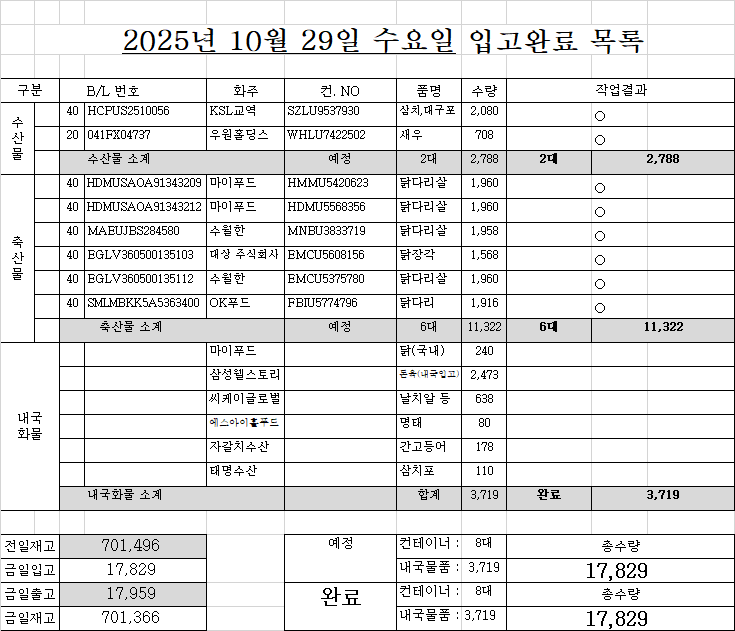
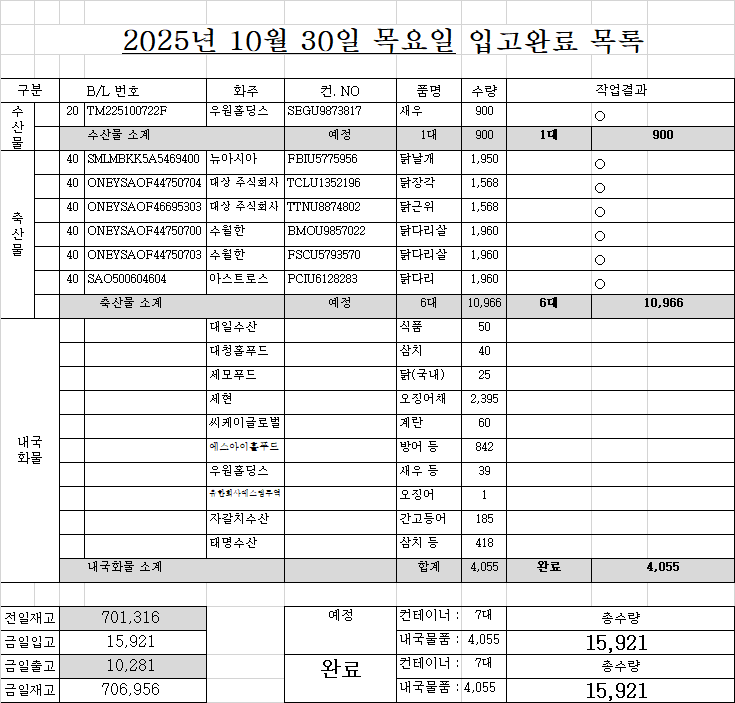
DSFSDFSD

diff --git a/list.html b/list.html
@@ -122,61 +122,55 @@
 </div>
 <!-- ★★★★★★ 따로 빼 놔야한다. 복붙하면 첫칸 비어도 되는데, 여기서는 첫칸비우면 당겨진다. -->
 <!-- ★ 엑셀범위를 브라우저 textarea에 붙여넣으면 첫셀 비어도 제대로 되는데... HTML에 붙여놓은 자료는 처음셀이 비어있으면 당겨짐 -->
-<div class="d-none" id="원본text_리스트1부터w요약열까지">작성	면허	B/LNO.	화주	컨테이너NO.	품명	수량	반입NO.	입항일	구분	도착일	도착시간	구분	운.도VBA	10/28 화 16:25	화찰BL	화찰 선명	화물관리번호	화찰수량	화찰중량	화찰입항	리스트시트기준열	
-1	○	HCPUS2510056	KSL교역	SZLU9537930	삼치,대구포	2,080 	????(ONE).BPT신선대	10/27	1	ONE			????(ONE).BPT신선대		HCPUS2510056	KMTC DALIAN	25KMTC3867I-5053-0001	2,080 	21,840.00 	2025.10.27	10/28 화 16:25	
-1	○	HDMUSAOA91343209	마이푸드	HMMU5420623	닭다리살	1,960 	HPNT	10/12	2				HPNT		HDMUSAOA91343209	HMM OCEAN	25HDMUA469I-0044-	1,960 	24,500.00 	2025.10.10	조회정보	
-1	○	HDMUSAOA91343212	마이푸드	HDMU5568356	닭다리살	1,960 	HPNT	10/12	2				HPNT		HDMUSAOA91343212	HMM OCEAN	25HDMUA469I-0045-	1,960 	24,500.00 	2025.10.10	적재	57 
-1	○	MAEUJBS284580	수월한	MNBU3833719	닭다리살	1,958 	PNC	10/26	2				PNC		MAEUJBS284580	GRASMERE MAERSK	25MAEU0710I-1207-	1,958 	24,583.29 	2025.10.26	4,617 	3줄
-1	○	EGLV360500135103	대상 주식회사	EMCU5608156	닭장각	1,568 	BPT감만	10/27	2	10/28	13:22		BPT감만		EGLV360500135103	RDO FAVOUR	25KRCL0041I-1955-	1,568 	24,304.00 	2025.10.27	6,156 	4줄
-1	○	EGLV360500135112	수월한	EMCU5375780	닭다리살	1,960 	BPT감만	10/27	2				BPT감만		EGLV360500135112	RDO FAVOUR	25KRCL0041I-1956-	1,960 	24,500.00 	2025.10.27	7,695 	5줄
-2	○	SMLMBKK5A5363400	OK푸드	FBIU5774796	닭다리	1,916 		10/28	2				?????.BPT신선대		SMLMBKK5A5363400	PANCON BRIDGE	25PCLUBK12I-3304-	1,916 	24,103.28 	2025.10.28	9,234 	6줄
-2	○	SMLMBKK5A5469400	뉴아시아	FBIU5775956	닭날개	1,950 		10/28	2				?????.BPT신선대		SMLMBKK5A5469400	PANCON BRIDGE	25PCLUBK12I-3303-	1,950 	24,453.00 	2025.10.28		
-2	○	ONEYSAOF46695303	대상 주식회사	TTNU8874802	닭근위	1,568 	DGT	10/28	2				DGT		ONEYSAOF46695303	HYUNDAI PREMIUM	25HDMUA542I-5018-	1,568 	24,304.00 	2025.10.28	출고/입고 4주간	
-2	○	ONEYSAOF44750700	수월한	BMOU9857022	닭다리살	1,960 	DGT	10/28	2				DGT		ONEYSAOF44750700	HYUNDAI PREMIUM	25HDMUA542I-5003-	1,960 	24,500.00 	2025.10.28	1일 7/5	5일줄
-2	○	ONEYSAOF44750703	수월한	FSCU5793570	닭다리살	1,960 	DGT	10/28	2				DGT		ONEYSAOF44750703	HYUNDAI PREMIUM	25HDMUA542I-5006-	1,960 	24,500.00 	2025.10.28	16,382 	53.2
-		MAEUJBS284918	대상 주식회사	MNBU3486116	닭발	1,566 	PNC	10/27	2				PNC			NORDAGER MAERSK					14,590 	47.4
-		MEDUJJ087892	대상 주식회사	MEDU9620031	닭다리살	1,967 	PNIT	10/27	2				PNIT			BUENAVENTURA EXPRESS					내국제외	
-		ONEYSAOF42906801	수월한	SEGU9276513	닭다리살	1,960 	PNIT	10/27	2				PNIT			BUENAVENTURA EXPRESS					구분	대수
-		041FX04737	우원홀딩스	WHLU7422502	새우	708 	BPT감만	10/27	1			20 	BPT감만			WAN HAI 289					수산	30
-		ONEYSAOF44750704	대상 주식회사	TCLU1352196	닭장각	1,568 	DGT	10/28	2				DGT			HYUNDAI PREMIUM(SX2)					축산	52
-		DJSCYOK250003368	씨케이글로벌	DJLU2900218	연어알	134 	BPT신선대	10/28	1			20 	BPT신선대			PEGASUS TERA					합계	82
-		SAO500604604	아스트로스	PCIU6128283	닭다리	1,960 		10/28	2							X PRESS PHOENIX						
-		ASC0484468	우원	CGMU3066895	새우	1,001 		10/28	1			20 	?????.DGT			HAIAN WEST(KI8)					화주별 요약	
-		HLCUPN4250851459	대성무역	HLBU6093411	닭발	1,567 	PNC	10/29	2				PNC			MAERSK GAIRLOCH					화주	대수
-		XMN5A1476400	더파이러츠	FCGU6130513	새우	1,800 	?????(SM).허치슨감만	10/29	1	SM			?????(SM).허치슨감만			PEGASUS DREAM					수월한	18
-		MAEUJBS285601	수월한	MNBU9096286	닭다리살	1,953 	PNIT	10/29	2				PNIT			OSAKA EXPRESS					뉴아시아	6
-		SSZ1666603	아스트로스	CGMU5303640	닭다리	1,875 		10/29	2				?????.BNCT			CMA CGM CORAL					씨케이글로벌	6
-		HDMUSGNA97915201	우원	TEXU9031090	새우	846 		10/29	1			20 	?????.HPNT			HAIAN OPUS					바다사랑	6
-		HDMUSGNA97915202	우원	TEXU9034464	새우	769 		10/29	1			20 	?????.HPNT			HAIAN OPUS					대상 주식회사	5
-		HDMUSGNA97915203	우원	TEXU9031866	새우	660 		10/29	1			20 	?????.HPNT			HAIAN OPUS					아스트로스	5
-		HDMUSGNA01489200	우원홀딩스	TEXU9031887	새우	820 	HPNT	10/29	1			20 	HPNT			HAIAN OPUS					대성무역	5
-		MAEU259339952	참트레이딩	MNBU3744397	닭다리살	1,916 	PNC	10/29	2				PNC			MAERSK GAIRLOCH					삼영수산	5
-		NSSLADLC25J00182	하나교역	TEXU9025982	재첩살	1,200 		10/29	1			20 									우원홀딩스	4
-		HLCUSCL250846299	동천씨푸드	HLBU9169038	오징어	1,200 	PNIT	10/30	1				PNIT			MSC LIVORNO					우원	4
-		KHHBUS2510013	바다사랑	FSCU5840517	꽁치	2,300 	BPT감만	10/30	1				BPT감만			IBN AL ABBAR					참트레이딩	4
-		KHHBUS2510013	바다사랑	SEGU9801680	꽁치	2,315 	BPT감만	10/30	1				BPT감만			IBN AL ABBAR					마이푸드	2
-		KHHBUS2510014	바다사랑	FSCU5840137	꽁치	2,330 	BPT감만	10/30	1				BPT감만			IBN AL ABBAR					현대코퍼	2
-		KHHBUS2510014	바다사랑	FSCU5841827	꽁치	2,330 	BPT감만	10/30	1				BPT감만			IBN AL ABBAR					현대그린	2
-		KHHBUS2510014	바다사랑	OTPU6604930	꽁치	2,340 	BPT감만	10/30	1				BPT감만			IBN AL ABBAR					KSL교역	1
-		KHHBUS2510014	바다사랑	OTPU6608370	꽁치	2,310 	BPT감만	10/30	1				BPT감만			IBN AL ABBAR					OK푸드	1
-		HDMUSAOA02443500	아스트로스	HMMU5425815	닭발	1,500 	HPNT	10/30	2				HPNT			HYUNDAI BRAVE					더파이러츠	1
-		HDMUSAOA15124100	아스트로스	HMMU5463055	닭발	1,500 	HPNT	10/30	2				HPNT			HYUNDAI BRAVE					하나교역	1
-		HDMUSAOA71095000	아스트로스	HDMU5580829	닭다리	1,875 		10/30	2				?????.HPNT			HYUNDAI BRAVE					동천씨푸드	1
-		MEDUFX741061	이마트	CXRU1476785	닭다리살	1,939 	BCT	10/30	2				BCT			MSC ELAINE					이마트	1
-		MEDUJJ076341	현대코퍼	MEDU9646530	닭다리살	1,980 		10/30	2							MSC ELAINE 					동일냉장	1
-		MEDUJJ081291	현대코퍼	MEDU9010297	닭다리살	1,980 		10/30	2							MSC ELAINE 					CHC	1
-		SNKO190250903331	뉴아시아	FBIU5094079	닭날개	1,925 		10/31	2												합계	82
-		SNKO190251000498	동일냉장	HALU8500174	닭날개	1,925 		10/31	2													
-		DJSCBKK250002010	우원홀딩스	SZLU2069288	새우	1,309 	BPT신선대	10/31	1			20 	BPT신선대			SKY SUNSHINE						
-		SITEDAPU068993	CHC	SITU6655949	새우	896 		11/1	1			20 				SITC FANGCHENG						
-		HASLS22250902281	뉴아시아	FBIU5372009	닭날개	1,925 		11/1	2													
-		NSSLBKBSC2500494	우원홀딩스	CAXU3009690	갑오징어	1,563 	BPT신선대	11/1	1			20 	BPT신선대			PEGASUS PROTO						
-		HDMUOSLA28800300	씨케이글로벌	HMMU5402105	열빙어알	1,100 	HJNC	11/2	1				HJNC			HMM LE HAVRE						
+<div class="d-none" id="원본text_리스트1부터w요약열까지">작성	면허	B/LNO.	화주	컨테이너NO.	품명	수량	반입NO.	입항일	구분	도착일	도착시간	구분	운.도VBA	10/30 목 16:30	화찰BL	화찰 선명	화물관리번호	화찰수량	화찰중량	화찰입항	리스트시트기준열	
+1	○	XMN5A1476400	더파이러츠	FCGU6130513	새우	1,800 	?????(SM).허치슨감만	10/29	1	SM			?????(SM).허치슨감만		XMN5A1476400	PEGASUS DREAM	25PCSLJ026I-0019-0001	1,800 	21,000.00 	2025.10.30	10/30 목 16:30	
+1	○	NSSLADLC25J00182	하나교역	TEXU9025992	재첩살	1,200 		10/29	1			20 			NSSLADLC25J00182	PEGASUS PETA	25PCSLJ028I-3019-0001	1,200 	15,600.00 	2025.10.29	조회정보	
+1	○	KHHBUS2510014	바다사랑	FSCU5840137	꽁치	2,330 	BPT감만	10/30	1				BPT감만		KHHBUS2510014	IBN AL ABBAR	25YMJA0188I-1039-0001	9,310 	99,310.00 	2025.10.29	적재	57 
+1		KHHBUS2510014	바다사랑	FSCU5841827	꽁치	2,330 	BPT감만	10/30	1				BPT감만			IBN AL ABBAR					4,617 	3줄
+1		KHHBUS2510014	바다사랑	OTPU6604930	꽁치	2,340 	BPT감만	10/30	1				BPT감만			IBN AL ABBAR					6,156 	4줄
+1		KHHBUS2510014	바다사랑	OTPU6608370	꽁치	2,310 	BPT감만	10/30	1				BPT감만			IBN AL ABBAR					7,695 	5줄
+1		NSSLSBBSC2500145	씨케이글로벌	BMOU9245027	새우	2,130 		10/30	1												9,234 	6줄
+1	○	DOLBYS2542E105	하나교역	YMLU5365200	다슬기	1,526 		10/30	1						DOLBYS2542E105	YONG SHENG 158	25DWICB542I-0005-0001	1,526 	18,500.00 	2025.10.30		
+1	○	HLCUPN4250851459	대성무역	HLBU6093411	닭발	1,567 	PNC	10/29	2				PNC		HLCUPN4250851459	MAERSK GAIRLOCH	25MAEU0718I-7028-	1,567 	24,304.17 	2025.10.30	출고/입고 4주간	
+1		SSZ1666603	아스트로스	CGMU5303640	닭다리	1,875 	검색기	10/29	2				?????.BNCT			CMA CGM CORAL					1일 7/5	5일줄
+2		DJSCYOK250003368	씨케이글로벌	DJLU2900218	연어알	134 	BPT신선대	10/28	1			20 	BPT신선대			PEGASUS TERA					16,203 	52.6
+2		ASC0484468	우원	CGMU3066895	새우	1,001 		10/28	1			20 	?????.DGT			HAIAN WEST(KI8)					14,508 	47.1
+2		HDMUSGNA97915201	우원	TEXU9031090	새우	846 		10/29	1			20 	?????.HPNT			HAIAN OPUS					내국제외	
+2		HDMUSGNA97915202	우원	TEXU9034464	새우	769 		10/29	1			20 	?????.HPNT			HAIAN OPUS					구분	대수
+2		HDMUSGNA97915203	우원	TEXU9031866	새우	660 		10/29	1			20 	?????.HPNT			HAIAN OPUS					수산	34
+2		HDMUSGNA01489200	우원홀딩스	TEXU9031887	새우	820 	HPNT	10/29	1			20 	HPNT			HAIAN OPUS					축산	44
+2	○	KHHBUS2510013	바다사랑	FSCU5840517	꽁치	2,300 	BPT감만	10/30	1				BPT감만		KHHBUS2510013	IBN AL ABBAR	25YMJA0188I-1038-0001	4,615 	49,620.00 	2025.10.29	합계	78
+2		KHHBUS2510013	바다사랑	SEGU9801680	꽁치	2,315 	BPT감만	10/30	1				BPT감만			IBN AL ABBAR						
+2	○	HDMUSAOA02443500	아스트로스	HMMU5425815	닭발	1,500 	HPNT	10/30	2				HPNT		HDMUSAOA02443500	HYUNDAI BRAVE	25HDMUA530I-0009-	1,500 	23,602.50 	2025.10.30	화주별 요약	
+2	○	HDMUSAOA15124100	아스트로스	HMMU5463055	닭발	1,500 	HPNT	10/30	2				HPNT		HDMUSAOA15124100	HYUNDAI BRAVE	25HDMUA530I-0011-	1,500 	23,850.00 	2025.10.30	화주	대수
+2	○	HDMUSAOA71095000	아스트로스	HDMU5580829	닭다리	1,875 		10/30	2				?????.HPNT		HDMUSAOA71095000	HYUNDAI BRAVE	25HDMUA530I-0010-	1,875 	23,692.50 	2025.10.30	수월한	14
+		MAEUJBS284918	대상 주식회사	MNBU3486116	닭발	1,566 	PNC	10/27	2				PNC			NORDAGER MAERSK					씨케이글로벌	10
+		MEDUJJ087892	대상 주식회사	MEDU9620031	닭다리살	1,967 	PNIT	10/27	2				PNIT			BUENAVENTURA EXPRESS					바다사랑	6
+		ONEYSAOF42906801	수월한	SEGU9276513	닭다리살	1,960 	PNIT	10/27	2				PNIT			BUENAVENTURA EXPRESS					뉴아시아	6
+		MAEUJBS285601	수월한	MNBU9096286	닭다리살	1,953 	PNIT	10/29	2				PNIT			OSAKA EXPRESS					대성무역	5
+		MAEU259339952	참트레이딩	MNBU3744397	닭다리살	1,916 	PNC	10/29	2				PNC			MAERSK GAIRLOCH					참트레이딩	5
+		HLCUSCL250846299	동천씨푸드	HLBU9169038	오징어	1,200 	PNIT	10/30	1				PNIT			MSC LIVORNO					삼영수산	5
+		NSSLSBBSC2500146	씨케이글로벌	BEAU9718402	새우	3,500 		10/30	1												아스트로스	4
+		MEDUFX741061	이마트	CXRU1476785	닭다리살	1,939 	BCT	10/30	2				BCT			MSC ELAINE					우원	4
+		HDMUSAOA84477200	현대그린	HMMU5477233	닭다리살	1,875 		10/30	2												현대그린	4
+		HDMUSAOA91770900	현대그린	HDMU5576794	닭다리살	1,875 		10/30	2												우원홀딩스	3
+		MEDUJJ076341	현대코퍼	MEDU9646530	닭다리살	1,980 		10/30	2							MSC ELAINE 					하나교역	2
+		MEDUJJ081291	현대코퍼	MEDU9010297	닭다리살	1,980 		10/30	2							MSC ELAINE 					대상 주식회사	2
+		SNKO190250903331	뉴아시아	FBIU5094079	닭날개	1,925 		10/31	2												현대코퍼	2
+		SNKO190251000498	동일냉장	HALU8500174	닭날개	1,925 		10/31	2												더파이러츠	1
+		DJSCBKK250002010	우원홀딩스	SZLU2069288	새우	1,309 	BPT신선대	10/31	1			20 	BPT신선대			SKY SUNSHINE					동천씨푸드	1
+		SITEDAPU068993	CHC	SITU6655949	새우	896 		11/1	1			20 				SITC FANGCHENG					이마트	1
+		HASLS22250902281	뉴아시아	FBIU5372009	닭날개	1,925 		11/1	2												동일냉장	1
+		NSSLLCBSC2500736	뉴아시아	SZLU9370502	닭날개	1,925 		11/1	2												CHC	1
+		NSSLBKBSC2500494	우원홀딩스	CAXU3009690	갑오징어	1,563 	BPT신선대	11/1	1			20 	BPT신선대			PEGASUS PROTO					에프원에프앤비	1
+		HDMUOSLA28800300	씨케이글로벌	HMMU5402105	열빙어알	1,100 	HJNC	11/2	1				HJNC			HMM LE HAVRE					합계	78
 		HDMUOSLA72215200	씨케이글로벌	HMMU5496418	열빙어알	1,100 	HJNC	11/2	1				HJNC			HMM LE HAVRE						
 		HASLS22251000277	뉴아시아	FBIU5102847	닭다리살	1,940 		11/3	2													
 		MAEUJBS282045	대성무역	MNBU0546910	닭발	1,566 		11/3	2							CHICAGO EXPRESS						
 		MAEUJBS282051	대성무역	TTNU8988256	닭다리살	1,958 		11/3	2				챔프(EZ신항).BNCT			CHICAGO EXPRESS						
 		COSU6428999351	씨케이글로벌	TTNU8195632	열빙어알	1,100 		11/3	1							COSCO SHIPPING ORCHID						
+		KMTCSUB2422988	씨케이글로벌	SEGU9679210	새우	1,100 		11/4	1													
+		KMTCSUB2424920	씨케이글로벌	DTPU6142256	새우	1,800 		11/4	1													
 		ONEYSAOF48854904	뉴아시아	ONEU9276906	닭다리살	1,960 		11/5	2													
 		ONEYSAOF48854907	뉴아시아	TLLU1208417	닭다리살	1,960 		11/5	2													
 		ONEYSAOF48854905	대성무역	TTNU8748569	닭다리	1,960 		11/5	2													
@@ -205,6 +199,8 @@
 		HLCUSS5250904682	참트레이딩	HLBU9520266	닭다리살	1,916 		12/3	2							IQUIQUE EXPRESS						
 		MAEUJBS288307	수월한	MNBU0304856	닭다리	1,900 		12/9	2													
 		MAEUJBS289850	수월한	SUDU8246685	닭다리	1,939 		12/9	2													
+		HLCUSCL250808518	에프원에프앤비	HLBU6281424	오징어	1,200 			1													
+		MAEU607469329	참트레이딩	MNBU3973114	닭다리살	1,980 			2													
 </div>
 <div class="d-none" id="원본text_입항관리도크부터도착항우측까지">도크	화주	컨테이너	작업순서	상세내용 참조		운송사	물품		06/05 목 16:15	B/L	도착항	상세내용
 </div>   

diff --git a/portal/assets/js/excel_코드점검_그리기등별도.js b/portal/assets/js/excel_코드점검_그리기등별도.js
@@ -285,3 +285,28 @@ function 캔버스_개별카테고리_h6의title과id순서() {
   });
 }
 
+
+
+function 요소마우스드래그_리스너등록() { // ※ 이거는 한번, #전체대체에 복사본을 가져오는데 복사본은 등록되지 않았으므로 지워지는거나 마찬가지다
+  console.log('요소마우스드래그_리스너등록()');
+  let 요소마우스드래그=document.querySelector('#요소마우스드래그'); // 1) mousedonw 등록
+  let is드래깅=true;
+  function 요소마우스드래그_mousedown(e) { // 1) mousedonw 등록
+
+
+    function 요소마우스드래그_mousemove(e) { // 2) mousemove 등록
+      if (!is드래깅) {return;} // up한 후에 움직이거나...
+      // 범위 제한이 있는경우 범위를 벗어났을때 move, up 리스너 삭제
+      console.log('mousemove');
+    }
+    function 요소마우스드래그_mouseup(e) {
+      console.log('mouseup');
+      // move, up 리스너 삭제
+    }
+    요소마우스드래그.addEventListener('mousemove',요소마우스드래그_mousemove); // 2) mousemove 등록
+    요소마우스드래그.addEventListener('mouseup',요소마우스드래그_mouseup); // 3) mouseup 등록
+  }
+  요소마우스드래그.addEventListener('mousedown',요소마우스드래그_mousedown); // 1) mousedonw 등록
+}
+
+

diff --git a/portal/assets/js/kim.js b/portal/assets/js/kim.js
@@ -3,6 +3,10 @@
 var 메모div내_집구조전체div가있을때만작동하는것=document.querySelector('#메모');
 function 공통켤때위치있는거메모div내_가구배치() {
   console.log('공통켤때위치있는거메모div내_가구배치()')
+
+   if (document.querySelector('#진동선').classList.contains('이벤트등록되었음')) {console.log('dddd');return;}
+   document.querySelector('#진동선').classList.add('이벤트등록되었음');
+
   var 집구조클래스들=document.querySelectorAll('#메모 .집구조');
   for (var i=0; i<집구조클래스들.length; i++) {
     집구조클래스들[i].id='집구조_구조물' + (i+1);
@@ -180,6 +184,10 @@ function 임시_집구조불러오기() {
 
 
   메모div내_집구조전체div가있을때만작동하는것.addEventListener('click',메모div내_집구조전체);
+  if (document.querySelector('#진동선').classList.contains('이벤트등록되었음')) {console.log('true')} else {
+    console.log('false');
+    메모div내_집구조전체div가있을때만작동하는것.addEventListener('click',메모div내_집구조전체);
+  }
 }
 function 메모div내_집구조전체(e) {
   //document.querySelector('#메모 #집구조전체').style.whiteSpace='nowrap'

diff --git a/portal/assets/js/excel_코드점검.js b/portal/assets/js/excel_코드점검.js
@@ -1,7 +1,9 @@
 let 전체변수h6title='';
 function 특정id편집() {
-  전체변수h6title ='JS이벤트리스너' //원래는 h6의 title이다.
+  전체변수h6title ='JS이벤트리스너2' //원래는 h6의 title이다.
   전체대체에셑팅();
+        //임시
+    if (전체변수h6title=='JS이벤트리스너2'){요소마우스드래그_리스너등록();}
 }
 function 연습() {
   let 좌표예제=document.querySelector('#좌표예제');
@@ -148,15 +150,5 @@ function 리스너_바디_click(e) {
 }
 리스너_바디.addEventListener('click',리스너_바디_click);
 
-let 임시이벤트=document.querySelector('#임시이벤트');
-function 임시이벤트함수1(e) {
-  console.log('임시1');
-  function 내부의이벤트에등록된함수() {console.log('내부의이벤트에등록된함수()')}
-  e.target.addEventListener('click',내부의이벤트에등록된함수);
-  //첫회차에서는 등록만되는것이고 2회차부터 실행되면서 누적된다.
-  내부의이벤트에등록된함수();
-  //다음처럼 remove해주면 중첩방지
-  e.target.removeEventListener('click',내부의이벤트에등록된함수);
-}
-임시이벤트.addEventListener('click', 임시이벤트함수1);
+
 

diff --git a/kim.html b/kim.html
@@ -50,7 +50,7 @@
             <!-- <li><hr class="dropdown-divider"></li> -->
           </ul>
         </li>
-        <button style="border:none;" onclick="일단다숨기기();임시_집구조불러오기();임시_집구조켤때캔버스그리기();공통켤때위치있는거메모div내_가구배치()">진동선빌리지 집구조</button>
+        <button style="border:none;" id="진동선" onclick="일단다숨기기();임시_집구조불러오기();임시_집구조켤때캔버스그리기();공통켤때위치있는거메모div내_가구배치()">진동선빌리지 집구조</button>
         <button style="border:none;"><a href="야구2.html">야구</a></button>
         <button style="border:none;">메모</button>
 
